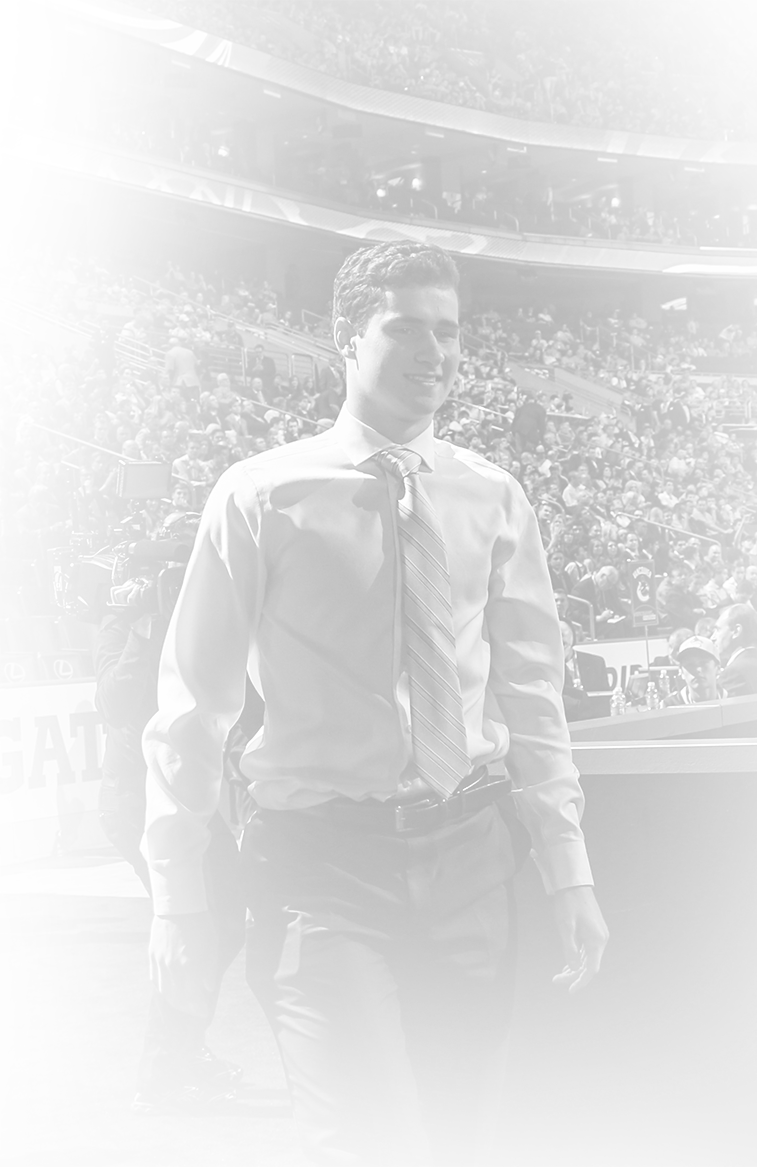
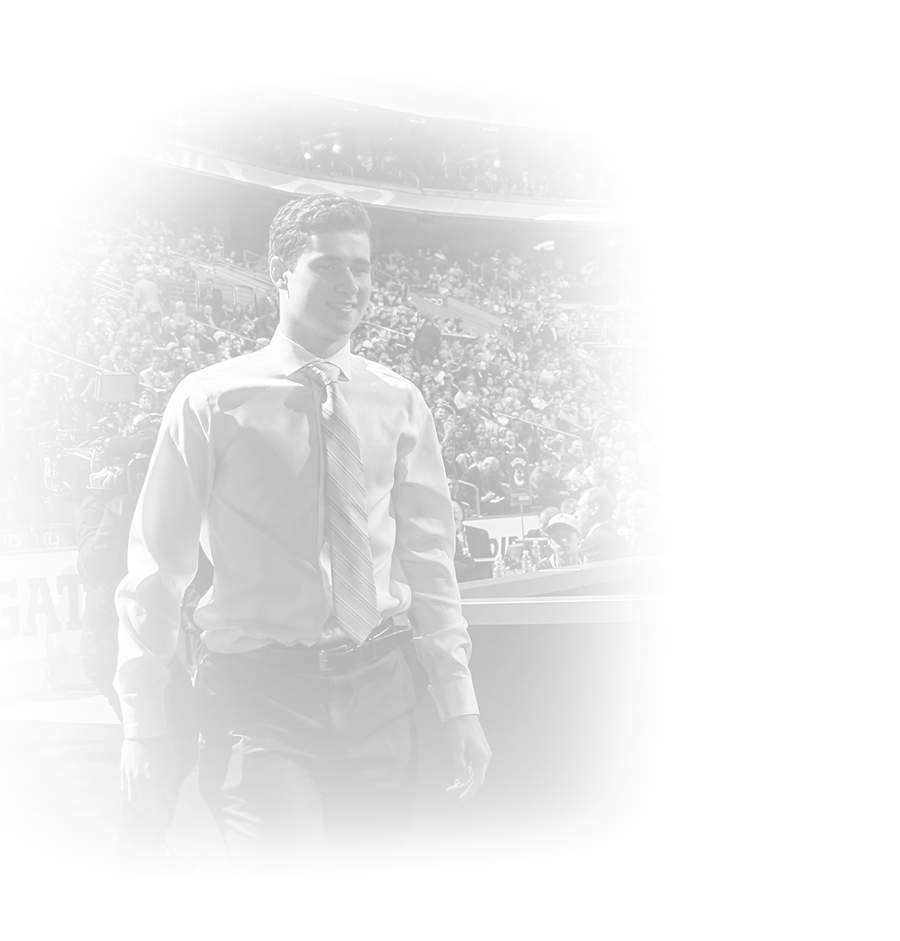
responsive mobile, tablet and desktop for intro, q1 and 12

diff --git a/src/scss/partials/_question.scss b/src/scss/partials/_question.scss
@@ -5,9 +5,6 @@
     align-items: center;
     justify-content: center;
     letter-spacing: 0.1em;
-    @include desktop{
-        width: 90vw;
-    }
     &.question{
         &-0{
             &::after{
@@ -21,26 +18,98 @@
                 top: 2em;
                 right: 50%;
                 margin-right: -6em;
+                pointer-events: none;
                 @include tablet{
-                    width: 24em;
-                    height: 35em;
+                    width: 15em;
+                    height: 20em;
                     margin-right: 11em;
-                    top: 4em;
+                    top: 6em;
+                    margin-right: 7.8em;
                     border: 1px solide white;
                 }
+                @include desktop{
+                    width: 21em;
+                    height: 28em;
+                    margin-right: 11em;
+                    top: 7em;
+                    margin-right: 9.25em;
+                }
             }
-            @include tablet{
-                &::before{
+            
+            &::before{
+                @include tablet{
                     content: "";
                     z-index: -100;
                     width: 25em;
-                    height: 39em;
+                    height: 30em;
                     background-image: url('../public/Images/q1_image2.png');
                     background-size: cover;
                     position: absolute;
                     top: 0em;
                     left: 50%;
-                    margin-left: 7em;
+                    margin-left: 5em;
+                }
+                @include desktop{
+                    width: 37em;
+                    height: 42em;
+                    top: -3em;
+                    margin-left: 8em;
+                }
+            }
+            
+        }
+        &-1{
+            span{
+                @include tablet{
+                    display: block;
+                }
+                @include desktop{
+                    display: block;
+                }
+            }
+            &::after{
+                content: "";
+                width: 18em;
+                height: 12.5em;
+                background-image: url('../public/Images/q2_image1.png');
+                background-size: cover;
+                z-index: 30;
+                position: absolute;
+                top: 2em;
+                right: 50%;
+                margin-right: -13em;
+                pointer-events: none;
+                @include tablet{
+                    width: 17em;
+                    height: 23em;
+                    margin-right: 5em;
+                    top: 4em;
+                }
+                @include desktop{
+                    width: 24em;
+                    height: 30em;
+                    margin-right: 3em;
+                    top: 5em;
+                }
+            }
+            &::before{
+                @include tablet{
+                    content: "";
+                    z-index: -100;
+                    width: 20em;
+                    height: 35em;
+                    background-image: url('../public/Images/q2_image2.gif');
+                    background-size: cover;
+                    position: absolute;
+                    top: -4em;
+                    left: 50%;
+                    margin-left: 8em;
+                }
+                @include desktop{
+                    width: 25em;
+                    height: 45em;
+                    top: -3em;
+                    margin-left: 11em;
                 }
             }
         }
@@ -54,7 +123,6 @@
             &::after{
                 content:"";
                 margin-top: 0.125em;
-
                 width: 4.25em;
                 height: 0.35em;
                 background-image: url('../public/Images/lines_01.png');
@@ -66,6 +134,9 @@
             width: 70vw;
             // margin-left: 2em;
         }
+        @include desktop{
+            margin-top: 0em;
+        }
     }
     .question-header-text{
         font-size: 2em;
@@ -73,8 +144,13 @@
         line-height: 1.125em;
         border-top: 1px solid white;
         padding-top: 0.5em;
+        text-transform: uppercase;
         @include tablet{
             border-top: 0px solid white;
+            font-size: 1.75em;
+        }
+        @include desktop{
+            font-size: 2.5em;
         }
     }
 }
@@ -84,6 +160,9 @@
     gap: 1.5em;
     @include tablet{
         grid-template-columns: 1fr 1fr;
+        gap: 1.25em;
+    }
+    @include desktop{
         gap: 2em;
     }
 }
@@ -105,12 +184,15 @@
     width: 9em;
     height: auto;
     box-sizing: border-box;
+    border-radius: 0.2em;
     transform: scale(0.9);
     transition: transform, border-radius;
     transition-duration: 0.5s, 0.5s;
     @include tablet{
-        width: 12em;
-        height: auto;
+        width: 8.5em;
+    }
+    @include desktop{
+        width: 9.5em;
     }
     
 }

diff --git a/src/scss/partials/_intro.scss b/src/scss/partials/_intro.scss
@@ -23,6 +23,9 @@
             @include tablet{
                 font-size: 2em;
             }
+            @include desktop{
+                font-size: 2.25em;
+            }
         }
         .intro-header{
             font-size: 3.75em;
@@ -33,7 +36,10 @@
             margin: 0;
             text-align: center;
             @include tablet{
-                font-size: 6em;
+                font-size: 4.75em;
+            }
+            @include desktop{
+                font-size: 5.25em;
             }
         }
     }
@@ -47,13 +53,20 @@
         top: 6.25em;
         left: 50%;
         transform: scaleY(-1) rotate(-105deg);
-        margin-left: 9em;
+        margin-left: 8.85em;
         @include tablet{
             transform: scaleY(1) rotate(-5deg);
             width: 7em;
             height: auto;
+            top: 7em;
+            margin-left: 6.25em;
+        }
+        @include desktop{
+            transform: scaleY(1) rotate(-5deg);
+            width: 7em;
+            height: auto;
             top: 8em;
-            margin-left: 10em;
+            margin-left: 8em;
         }
     }
     @keyframes rotation-wabble {
@@ -88,7 +101,7 @@
         left: 50%;
         width: 4em;
         height: auto;
-        margin-left: 5.75em;
+        margin-left: 5.25em;
         animation: rotation-wabble;
         animation-duration:2s;
         animation-iteration-count:infinite;
@@ -97,7 +110,13 @@
             width: 5em;
             height: auto;
             top: 2.5em;
-            margin-left: 17em;
+            margin-left: 13.5em;
+        }
+        @include desktop{
+            width: 5em;
+            height: auto;
+            top: 2.5em;
+            margin-left: 15em;
         }
     }
     .button-container{

diff --git a/src/resources/content.js b/src/resources/content.js
@@ -14,7 +14,6 @@ const content={
         selections: ["choice 1", "choice 2", "choice 3", "choice 4"],
         userChoice: -1,
         correctAnswer: 1,
-        hero: require("../../public/Images/q1_image1.png"),
         // choices:[
         //   "2012","2013","2014","2015",
         // ],
@@ -27,15 +26,15 @@ const content={
       },
       {
         id: "1",
-        title: "Question 2",
+        title: "<span>When did larkin play in his</span> <span>first NHL game?</span>",
         selections: ["choice 1", "choice 2", "choice 3", "choice 4"],
         userChoice: -1,
         correctAnswer: 0,
         images: [
-          require("../assets/question_selection_1.jpg"),
-          require("../assets/question_selection_2.jpg"),
-          require("../assets/question_selection_3.jpg"),
-          require("../assets/question_selection_4.jpg"),
+          require("../assets/q2_a1.gif"),
+          require("../assets/q2_a2.gif"),
+          require("../assets/q2_a3.gif"),
+          require("../assets/q2_a4.gif"),
         ],
       },
       {

diff --git a/src/scss/partials/_main.scss b/src/scss/partials/_main.scss
@@ -25,10 +25,15 @@ button{
     display: flex;
     margin: 0.5em;
     font-family: $subhead;
-    font-size: 1.3em;
+    font-size: 1.2em;
     text-transform: uppercase;
     color: $primaryColor;
     border: none;
+    padding:0 0.5em;
+    @include tablet{
+        font-size: 1.5em;
+        padding:0 0.5em;
+    }
 }
 button[disabled]{
     opacity: 0.25;

diff --git a/src/scss/partials/_footer.scss b/src/scss/partials/_footer.scss
@@ -6,7 +6,13 @@
     justify-content: center;
     align-items: center;
     width: 100vw;
-    margin-top: 8em;
+    margin-top: 4em;
+    @include tablet{
+        margin-top: 4em;
+    }
+    @include desktop{
+        margin-top: 1em;
+    }
     p{
         font-size: $tiny;
     }
